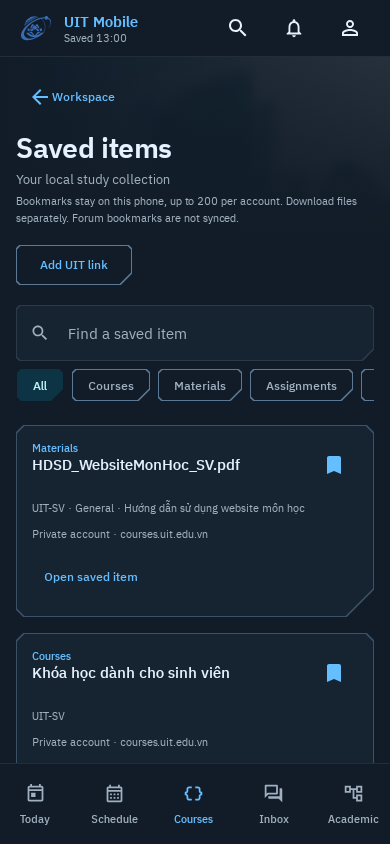
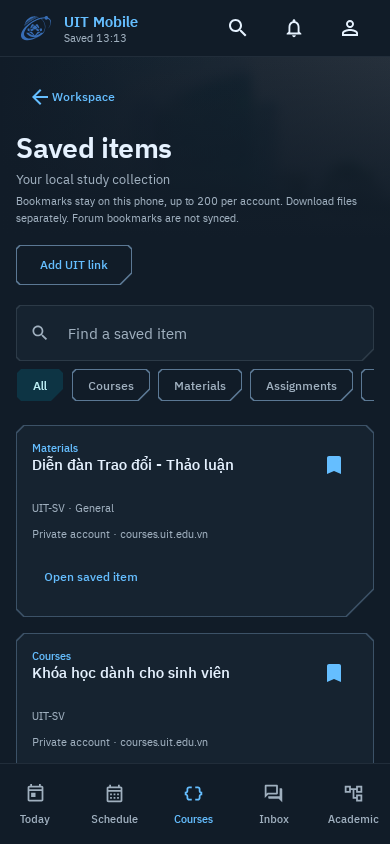
docs(test): record read-only bookmark recheck

Changed region(s): [[0.0923, 0.5237, 0.6154, 0.5545], [0.3385, 0.5853, 0.6462, 0.6161], [0.6769, 0.5853, 0.7692, 0.6161]]

diff --git a/docs/validation/bookmarks-live/README.md b/docs/validation/bookmarks-live/README.md
@@ -1,0 +1,43 @@
+# Read-only bookmark recheck
+
+The current captures were produced by a fresh owner-authorized authenticated host
+check of the merged bookmark feature on November 1, 2026. They show public course
+metadata under a private account label, with student identifiers and credentials
+excluded. Optional PNG text/EXIF metadata was removed without changing pixels.
+
+## Scope and results
+
+- Read the real Moodle catalogue (14 courses) and student-guide course metadata.
+- Pin a real material/module reference and course; recreate the production local
+  bookmark repository from private host storage and verify restored identities.
+- Open the exact locally indexed source through the production search ViewModel
+  and Compose controls. This does not open a remote module or discussion.
+- Add a credential-free public UIT link, remove only the material/module bookmark,
+  and verify the other two references remain.
+- Verify no file downloads and clear only the isolated local account mirror.
+
+The captures use host Compose rendering and a private file-backed storage adapter,
+not an installed APK. External browser launching and Android Keystore are outside
+this authenticated check. PR #66 separately passed all four synthetic Android 11
+emulator tests, including real Keystore restoration and account-scoped removal.
+
+## Network restrictions
+
+The private harness permitted only explicit read RPCs and catalogue/course-page
+GET requests. The ordinary metadata loader encountered the stricter restriction;
+the final check used the production course parser without following activity
+links. It did not weaken the guard to allow resource views.
+
+The successful metadata-only run recorded these requests after authentication:
+
+| Allowed operation | Count |
+| --- | ---: |
+| `core_enrol_get_users_courses` | 1 |
+| `core_course_get_enrolled_courses_by_timeline_classification` | 10 |
+| `core_course_get_contents` | 1 |
+| `GET /course/view.php` | 1 |
+
+Submission, messaging, profile/account edits, completion actions, remote bookmark
+changes, activity views, discussion threads and downloads were blocked or never
+requested. Normal login and access logs can still be recorded by UIT. No account
+session, password, raw response or private test harness is committed here.
